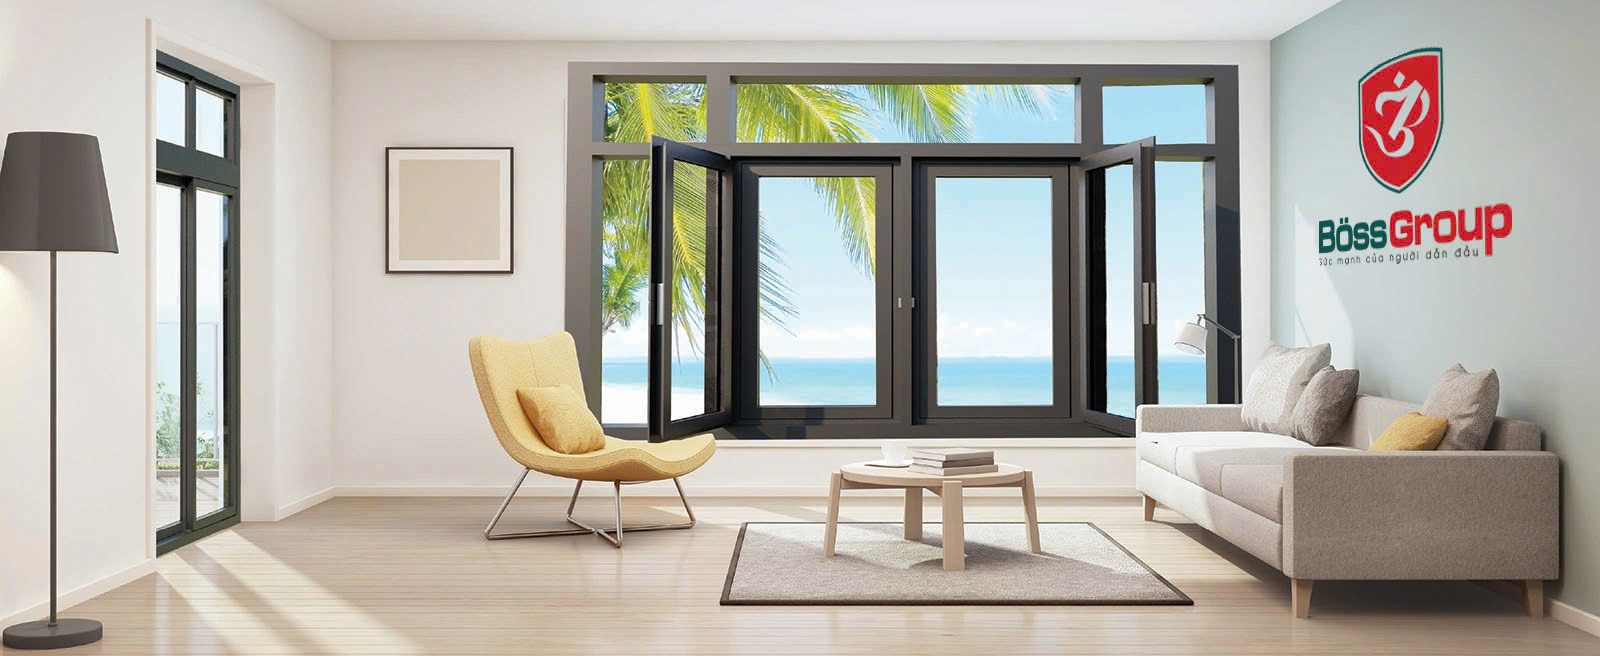
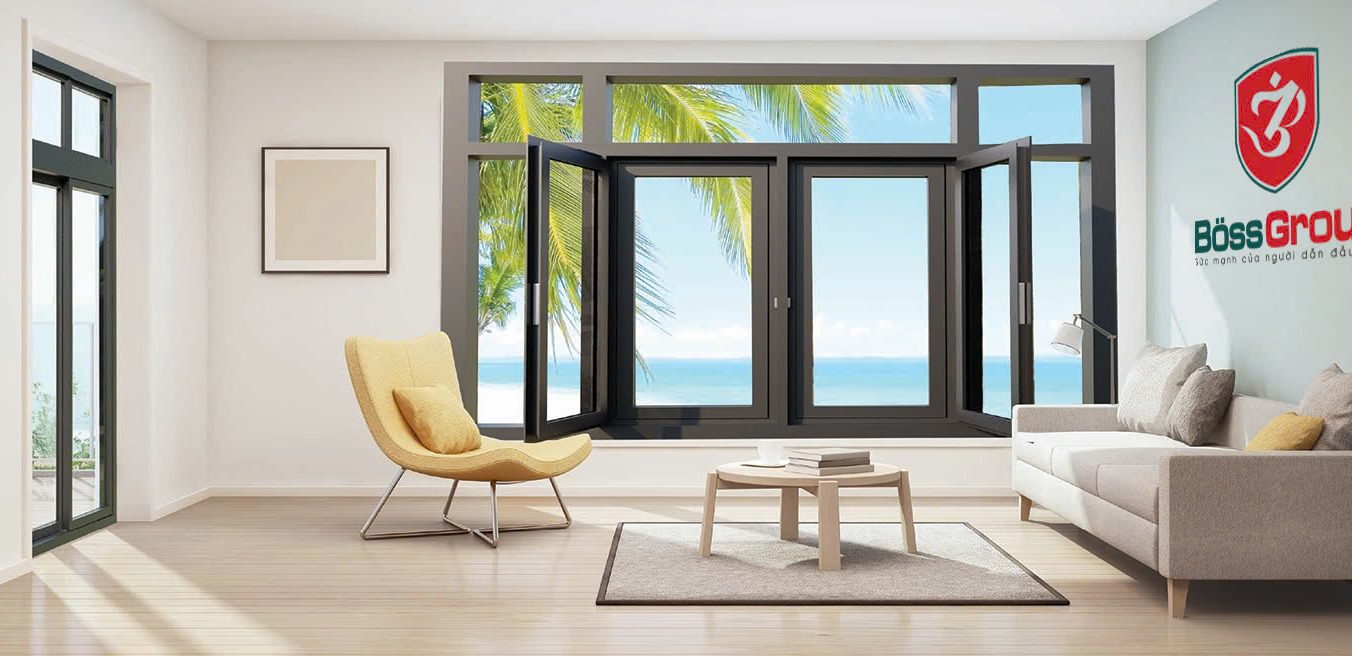
Ảnh hero cắt đúng khung concept, bỏ lớp phủ, cỡ chữ đo từ PDF
Bỏ hẳn lớp phủ trắng. Nó chỉ cần thiết vì trình duyệt đang cắt ảnh theo khung
hero, đẩy chữ vào những vùng rối. Sửa nguyên nhân thay vì che triệu chứng.

Ảnh: cắt đúng khung mà bản concept dùng. Trang concept 1920x1080, ảnh gốc
1600x760, nên để phủ kín nó phải phóng 1,421 lần và mất 124px mỗi bên. Khung
cắt đó không ngẫu nhiên - nó đưa cây đèn cây ra khỏi khung, mà chỗ cây đèn
đứng đúng là chỗ sáu dòng tên sản phẩm nằm. Hiển thị ảnh nguyên vẹn thì chữ
rơi thẳng lên nó. Cộng với cắt dải trên chứa dòng "Thương hiệu thuộc BossGroup".
Còn 1352x656, tỉ lệ 2,061.

Hero lấy đúng tỉ lệ đó bằng aspect-ratio nên trình duyệt không cắt gì thêm:
ảnh hiện trọn, chữ rơi đúng mảng tường sáng mà bức ảnh đặt sẵn dưới nó.

Cỡ chữ đo từ PDF chứ không ước lượng. Trên trang concept 1920: chữ lớn cao
34px, claim 17px, nav 19px. Cao chữ hoa của Saira đo được là 0,69em, nên quy
ra font-size lần lượt 49, 25 và 27px, viết theo vw để giữ tỉ lệ ở mọi bề ngang.
Chữ lớn trước đó là 76px - gấp rưỡi. Kiểm lại: ở 1920 ra đúng 49,34px.

Dưới 860px ảnh 2,06:1 quá dẹt để chứa sáu dòng, nên xếp chồng: ảnh trước, chữ
sau, trên nền trắng. Không cắt ảnh, không cần lớp phủ, chữ vẫn đọc rõ.

Chú thích chuyển từ góc phải xuống góc trái: ở bên phải nó xuống dòng và chìm
vào ghế sofa.

Đã kiểm 7 bề ngang từ 1920 đến 390: chữ luôn vừa khung hero, chú thích không đè
lên chữ, không khổ nào tràn ngang, 0 lỗi JS.

Claude-Session: https://claude.ai/code/session_01ETSwyx8SKRDC38JE57qfJ7

diff --git a/site/_app/app.css b/site/_app/app.css
@@ -51,21 +51,21 @@ header a, header button, .menu-btn, .action-btn { font-stretch: 125%; }
    header is a wordmark, seven links and a locale switch. */
 .abh { position: sticky; top: 0; z-index: 1000; background: #fff; border-bottom: 1px solid #e4e1dc; }
 .abh-bar {
-  max-width: 1440px; margin: 0 auto; padding: 0 28px; height: 68px;
+  max-width: 1920px; margin: 0 auto; padding: 0 2.5vw; height: clamp(56px, 4.7vw, 88px);
   display: flex; align-items: center; gap: 30px;
 }
 .abh a, .abh button { color: #1d1d1b; text-decoration: none; }
 
 .abh-mark {
   font-family: var(--ab-font); font-weight: 800; font-stretch: 125%;
-  font-size: 23px; letter-spacing: -0.02em; white-space: nowrap; flex: none;
+  font-size: clamp(18px, 1.82vw, 34px); letter-spacing: -0.02em; white-space: nowrap; flex: none;
 }
 .abh-mark span { font-weight: 600; }
 
-.abh-nav { display: flex; gap: 26px; margin-left: auto; }
+.abh-nav { display: flex; gap: 1.5vw; margin-left: auto; }
 .abh-nav a {
   font-family: var(--ab-font); font-weight: 700; font-stretch: 125%;
-  font-size: 15px; letter-spacing: -0.012em; white-space: nowrap;
+  font-size: clamp(13px, 1.43vw, 26px); letter-spacing: -0.012em; white-space: nowrap;
   padding: 24px 0; border-bottom: 2px solid transparent; margin-bottom: -1px;
 }
 .abh-nav a:hover { border-bottom-color: #cdc9c3; }
@@ -113,47 +113,51 @@ header a, header button, .menu-btn, .action-btn { font-stretch: 125%; }
 }
 
 /* ============================ homepage hero ============================
-   The concept's opening screen: a photograph, the claim, and the six product families stacked
-   at display size. The word under the pointer sets the backdrop; following it opens that family. */
+   The concept's opening screen: the photograph, the claim, and the six product families.
+
+   The hero takes its aspect ratio from the photograph rather than from the viewport, so the
+   picture is shown whole - no cropping by the browser, and therefore no washed-out scrim needed
+   to rescue text that landed on a busy part of the image. The words sit on the pale wall on the
+   left because that is where the photograph puts it.
+
+   Type is measured from the concept drawing, which is 1920 wide: cap heights of 34px for the
+   families, 17px for the claim. Saira's cap height is 0.69em, so those are 49px and 25px at
+   1920, expressed here in vw so the proportions hold at any width. */
 .abhero {
-  position: relative; min-height: calc(100vh - 68px); display: flex; align-items: center;
+  position: relative; aspect-ratio: 1352 / 656; display: flex; align-items: center;
   overflow: hidden; background: #cfcbc4;
 }
 .abhero-bg {
   position: absolute; inset: 0; background-size: cover; background-position: center;
-  transition: opacity .4s;
 }
-/* A scrim only where there is a photograph behind the words, and only on the side they sit on,
-   so the picture stays a picture on the right where the product actually is. */
-.abhero-bg.has-photo::after {
-  content: ''; position: absolute; inset: 0;
-  background: linear-gradient(100deg, rgba(255,255,255,.92) 0%, rgba(255,255,255,.82) 26%,
-                                      rgba(255,255,255,.44) 52%, rgba(255,255,255,0) 68%);
-}
-.abhero-inner { position: relative; width: 100%; max-width: 1440px; margin: 0 auto; padding: 0 28px; }
+.abhero-inner { position: relative; width: 100%; max-width: 1920px; margin: 0 auto; padding: 0 2.5vw; }
 .abhero-claim {
   font-family: var(--ab-font); font-weight: 700; font-stretch: 125%; letter-spacing: -0.012em;
-  font-size: clamp(15px, 1.5vw, 20px); line-height: 1.25; color: #1d1d1b; margin: 0 0 22px;
+  font-size: clamp(13px, 1.28vw, 27px); line-height: 1.06; color: #1d1d1b;
+  margin: 0 0 1.05em;
 }
-.abhero-words { display: flex; flex-direction: column; align-items: flex-start; gap: clamp(2px, .8vh, 10px); }
+.abhero-words { display: flex; flex-direction: column; align-items: flex-start; }
 .abhero-words a {
   font-family: var(--ab-font); font-weight: 800; font-stretch: 125%; letter-spacing: -0.02em;
-  font-size: clamp(30px, 5.4vw, 76px); line-height: 1.08; text-decoration: none;
-  color: rgba(29,29,27,.42); transition: color .22s;
+  font-size: clamp(21px, 2.57vw, 54px); line-height: 1.52; text-decoration: none;
+  color: rgba(29,29,27,.42); transition: color .2s;
 }
 .abhero-words a:hover, .abhero-words a.is-on { color: #1d1d1b; }
-.abhero-words a:focus-visible { outline: 2px solid #1d1d1b; outline-offset: 4px; }
+.abhero-words a:focus-visible { outline: 2px solid #1d1d1b; outline-offset: 3px; }
 
+/* Bottom left, under the words and aligned with them, where the floor is pale. It began on the
+   right and wrapped over the sofa, which is both busy and dark. */
 .abhero-caption {
-  position: absolute; right: 28px; bottom: 34px; margin: 0; max-width: 40ch; text-align: right;
-  font-family: var(--ab-font); font-size: 14px; line-height: 1.5; color: rgba(29,29,27,.72);
+  position: absolute; left: 2.5vw; bottom: 4.5%; margin: 0; max-width: 46ch;
+  font-family: var(--ab-font); font-size: clamp(11px, .78vw, 16px); line-height: 1.5;
+  color: rgba(29,29,27,.78);
 }
 .abhero-caption strong { font-stretch: 125%; font-weight: 700; }
 
-.abhero-scroll { position: absolute; left: 50%; bottom: 28px; transform: translateX(-50%); }
+.abhero-scroll { position: absolute; left: 50%; bottom: 3%; transform: translateX(-50%); }
 .abhero-scroll span {
-  display: block; width: 20px; height: 32px; border: 1.5px solid rgba(29,29,27,.55); border-radius: 11px;
-  position: relative;
+  display: block; width: 20px; height: 32px; border: 1.5px solid rgba(29,29,27,.55);
+  border-radius: 11px; position: relative;
 }
 .abhero-scroll span::after {
   content: ''; position: absolute; left: 50%; top: 7px; width: 2px; height: 6px; margin-left: -1px;
@@ -162,10 +166,19 @@ header a, header button, .menu-btn, .action-btn { font-stretch: 125%; }
 @keyframes abhero-wheel { 0%,100% { transform: translateY(0); opacity: 1 } 60% { transform: translateY(9px); opacity: 0 } }
 @media (prefers-reduced-motion: reduce) { .abhero-scroll span::after { animation: none } }
 
-@media (max-width: 700px) {
-  .abhero { min-height: calc(100vh - 60px); }
-  .abhero-caption { position: static; text-align: left; padding: 22px 18px 0; max-width: none; }
-  .abhero-inner { padding: 0 18px; }
+/* Below this width the photograph's own 2.44:1 shape is a letterbox slot too short to hold six
+   lines of display type. Rather than crop the picture and put the words back on top of it - which
+   is what made a scrim necessary in the first place - the two are stacked: picture, then words. */
+@media (max-width: 860px) {
+  .abhero { display: block; aspect-ratio: auto; background: #fff; }
+  .abhero-bg { position: relative; inset: auto; width: 100%; aspect-ratio: 3 / 2;
+               background-position: 66% center; }
+  .abhero-inner { padding: 26px 18px 4px; }
+  .abhero-claim { font-size: 15px; margin-bottom: 16px; }
+  .abhero-words a { font-size: clamp(23px, 6.4vw, 34px); line-height: 1.32; color: rgba(29,29,27,.5); }
+  .abhero-caption { position: static; text-align: left; max-width: none;
+                    padding: 14px 18px 4px; font-size: 13px; }
+  .abhero-scroll { display: none; }
 }
 
 .ab {

diff --git a/site/_app/home.js b/site/_app/home.js
@@ -23,9 +23,8 @@
     // as content, and the caption below already names what is selected.
     var src = c.image ? AB.root() + '_media/' + c.image : AB.ph(1920, 1080, '');
     bg.style.backgroundImage = 'url("' + src + '")';
-    // Dark display type needs the photograph held back on its left; over the flat grey there is
-    // nothing to hold back and the scrim would only mute it.
-    bg.classList.toggle('has-photo', !!c.image);
+    // No scrim: the hero shows the photograph at its own aspect ratio, so the words land on the
+    // pale wall the photograph puts under them, exactly as the concept has it.
     cap.innerHTML = '<strong>' + AB.esc(c.name) + '</strong> ' + AB.esc(c.tagline);
     var all = words.querySelectorAll('a');
     for (var k = 0; k < all.length; k++) all[k].className = k === i ? 'is-on' : '';

diff --git a/build/hero-image.py b/build/hero-image.py
@@ -1,13 +1,18 @@
 # Prepares the concept photograph for use as the hero backdrop.
 #
 # The source is the image embedded in the concept PDF: a 1600x760 interior showing the window
-# and door systems. Two things are done to it and nothing else - the picture itself is not
-# retouched.
+# and door systems. It is cropped to the frame the concept itself uses and re-encoded. The
+# picture is not retouched.
 #
-#   1. The top strip carrying "Thuong hieu thuoc BossGroup" is cropped away. It would land
-#      directly under the header and collide with the claim, and the wordmark already says it.
-#      The BossGroup logo on the wall stays: it is part of the room, not an overlay.
-#   2. Re-encoded as JPEG. The PNG is 973 KB for a photograph, which is the wrong container.
+#   1. Sides. The concept page is 1920x1080 and the photograph fills it, which for a 1600x760
+#      source means scaling by 1.421 and losing 124px from each side. That crop is not
+#      incidental: it takes the standard lamp out of the frame, and the lamp is exactly where
+#      the six product names sit. Showing the picture whole put the words on top of it.
+#   2. Top. The strip carrying "Thuong hieu thuoc BossGroup" goes: it would land under the
+#      header and collide with the claim, and the wordmark already says it. In the concept it is
+#      masked with a pale rectangle instead; cropping is tidier. The BossGroup logo on the wall
+#      stays - that is part of the room, not an overlay.
+#   3. Re-encoded as JPEG. The PNG is 973 KB for a photograph, which is the wrong container.
 import io, os, sys
 from PIL import Image
 
@@ -16,11 +21,12 @@ ROOT = os.path.normpath(os.path.join(HERE, '..', 'site'))
 OUT = os.path.join(ROOT, '_media')
 
 SRC = sys.argv[1] if len(sys.argv) > 1 else os.path.join(HERE, 'concept-img0.png')
-CROP_TOP = 104          # measured: the caption sits between y=45 and y=85
+CROP_TOP = 104                  # the caption sits between y=45 and y=85
+CROP_L, CROP_R = 124, 1476      # the concept's own left and right edges
 
 im = Image.open(SRC).convert('RGB')
 w, h = im.size
-im = im.crop((0, CROP_TOP, w, h))
+im = im.crop((CROP_L, CROP_TOP, CROP_R, h))
 
 if not os.path.isdir(OUT):
     os.makedirs(OUT)
@@ -29,6 +35,7 @@ dst = os.path.join(OUT, 'hero-profile.jpg')
 im.save(dst, 'JPEG', quality=82, optimize=True, progressive=True)
 
 print('nguon    %dx%d, %.0f KB' % (w, h, os.path.getsize(SRC) / 1024))
-print('cat %dpx tren -> %dx%d' % (CROP_TOP, im.size[0], im.size[1]))
+print('cat tren %dpx, hai ben %d/%d -> %dx%d (ti le %.3f)'
+      % (CROP_TOP, CROP_L, w - CROP_R, im.size[0], im.size[1], im.size[0]/im.size[1]))
 print('ket qua  %s, %.0f KB' % (os.path.relpath(dst, ROOT).replace(os.sep, '/'),
                                 os.path.getsize(dst) / 1024))
